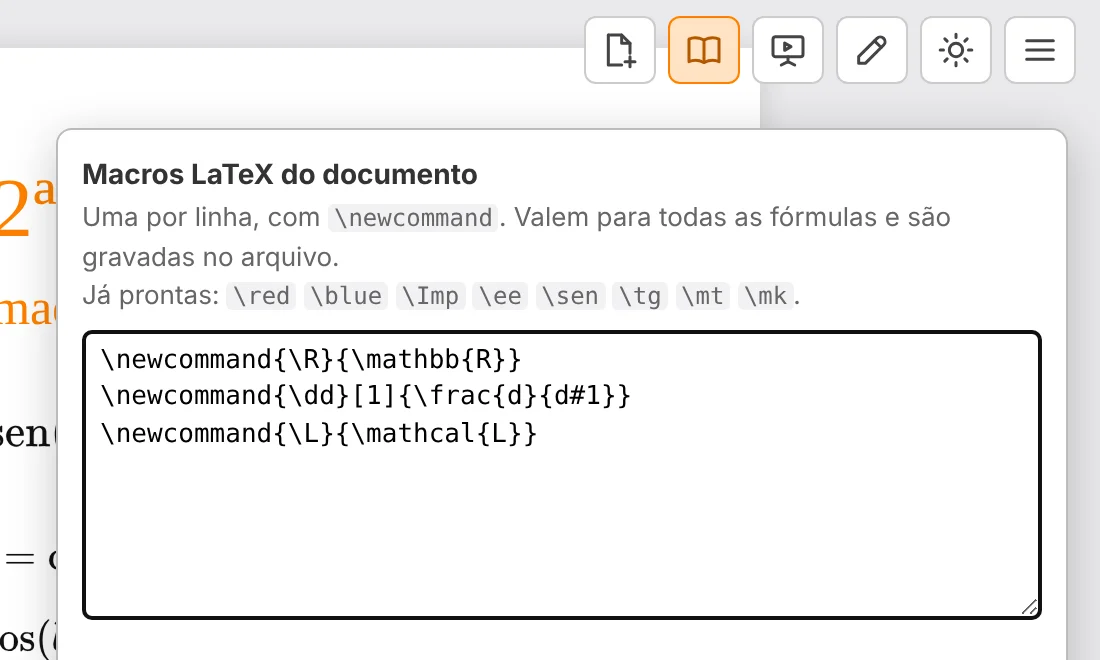
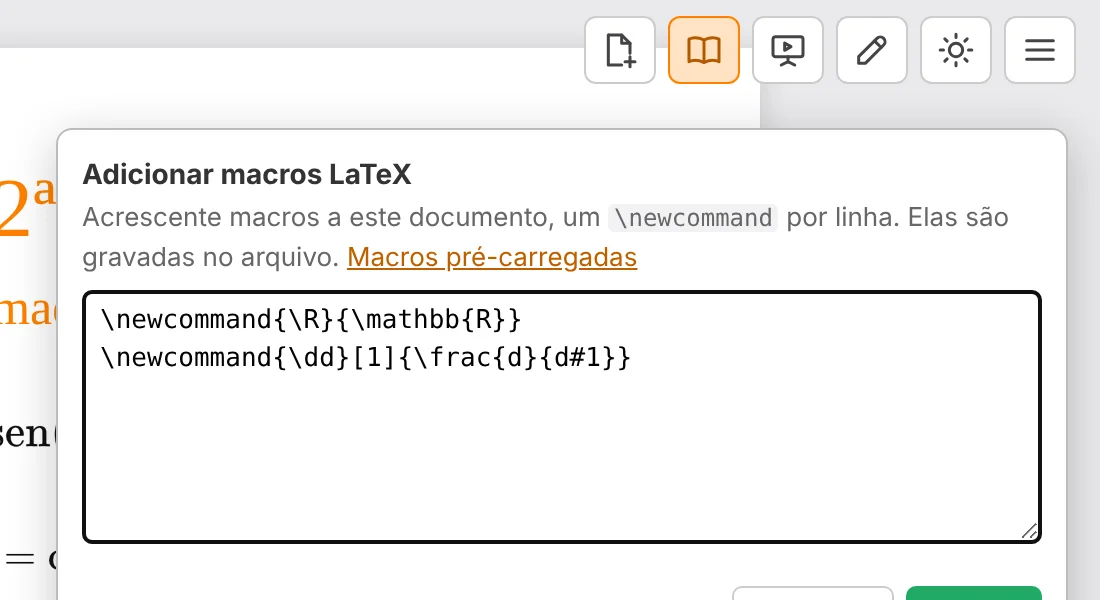
Macros: diálogo só acrescenta; opção Enter cria camada
- Adicionar macros LaTeX: começa vazio, com link para as macros
  pré-carregadas, e soma ao bloco x-tex-macros do documento
- Menu ☰ → Enter cria camada (preferência no navegador): cada Enter no
  texto começa uma camada nova
- Site, README e CHANGELOG

Claude-Session: https://claude.ai/code/session_01LiRaoRJDNxMqKx6f6sKoSB

diff --git a/strata.js b/strata.js
@@ -105,7 +105,7 @@
   <button type="button" id="m-edicao" data-modo="edicao" title="Modo edição. Clique de novo para voltar ao modo anterior (Ctrl+\)" aria-label="Modo edição"><svg viewBox="0 0 24 24" aria-hidden="true"><path d="M4 20h4L19 9a2.1 2.1 0 0 0-4-4L4 16z"></path><path d="M13.5 6.5l4 4"></path></svg></button>
   <button type="button" id="b-tema" title="Tema claro (clique para o escuro; só nesta tela, o arquivo não muda)" aria-label="Tema claro ou escuro"><svg class="lua" viewBox="0 0 24 24" aria-hidden="true"><path d="M20 14.5A8 8 0 0 1 9.5 4a8 8 0 1 0 10.5 10.5z"></path></svg><svg class="sol" viewBox="0 0 24 24" aria-hidden="true"><circle cx="12" cy="12" r="4"></circle><path d="M12 2.5v2M12 19.5v2M2.5 12h2M19.5 12h2M5.3 5.3l1.4 1.4M17.3 17.3l1.4 1.4M5.3 18.7l1.4-1.4M17.3 6.7l1.4-1.4"></path></svg></button>
   <span class="menu-strata"><button type="button" id="b-menu" title="Menu" aria-label="Menu" aria-haspopup="true" aria-expanded="false"><svg viewBox="0 0 24 24" aria-hidden="true"><path d="M4 6.5h16M4 12h16M4 17.5h16"></path></svg></button>
-    <span id="menu-strata" role="menu" hidden><button type="button" role="menuitem" id="mi-macros">Macros LaTeX…</button><a role="menuitem" href="https://fabiolimath.github.io/Strata.viz/" target="_blank" rel="noopener">Sobre o Strata.viz</a></span></span>
+    <span id="menu-strata" role="menu" hidden><button type="button" role="menuitem" id="mi-macros"><span class="mi-check" aria-hidden="true"></span>Adicionar macros LaTeX…</button><button type="button" role="menuitemcheckbox" id="mi-enter-camada" aria-checked="false" title="Na edição, cada Enter no texto começa uma camada nova (preferência desta tela; o arquivo não muda)"><span class="mi-check" aria-hidden="true"></span>Enter cria camada</button><a role="menuitem" href="https://fabiolimath.github.io/Strata.viz/" target="_blank" rel="noopener"><span class="mi-check" aria-hidden="true"></span>Sobre o Strata.viz</a></span></span>
 </div>
 <div id="barra">
   <span class="combo" id="c-estilo"><button type="button" id="b-estilo" class="b-icone" title="Estilo do parágrafo: Parágrafo" aria-label="Estilo do parágrafo"><svg viewBox="0 0 24 24" aria-hidden="true"><path d="M13 4v16M17 4v16M19.5 4H10.5a4.5 4.5 0 0 0 0 9H13"/></svg></button><button type="button" class="combo-seta" title="Estilo do parágrafo: escolher" aria-label="Estilo do parágrafo: escolher">▾</button>
@@ -139,9 +139,9 @@
   <div class="linha" style="justify-content:flex-end"><button type="button" id="pl-remover">Remover link</button><button type="button" id="pl-cancelar">Cancelar</button><button type="button" id="pl-ok" style="background:#2a6;color:#fff;border-color:#2a6">OK</button></div>
 </div>
 <div id="painel-macros" class="painel-mini" hidden="" role="dialog" aria-label="Macros LaTeX do documento">
-  <div class="linha"><b>Macros LaTeX do documento</b></div>
-  <div class="pmc-dica">Uma por linha, com <code>\newcommand</code>. Valem para todas as fórmulas e são gravadas no arquivo.<br>Já prontas: <code>\red</code> <code>\blue</code> <code>\Imp</code> <code>\ee</code> <code>\sen</code> <code>\tg</code> <code>\mt</code> <code>\mk</code>.</div>
-  <textarea id="pmc-tex" rows="7" spellcheck="false" placeholder="\newcommand{\R}{\mathbb{R}}&#10;\newcommand{\dd}[1]{\frac{d}{d#1}}"></textarea>
+  <div class="linha"><b>Adicionar macros LaTeX</b></div>
+  <div class="pmc-dica">Acrescente macros a este documento, um <code>\newcommand</code> por linha. Elas são gravadas no arquivo. <a href="https://fabiolimath.github.io/Strata.viz/#macros" target="_blank" rel="noopener">Macros pré-carregadas</a></div>
+  <textarea id="pmc-tex" rows="6" spellcheck="false"></textarea>
   <div id="pmc-erro"></div>
   <div class="linha" style="justify-content:flex-end"><button type="button" id="pmc-cancelar">Cancelar</button><button type="button" id="pmc-ok" style="background:#2a6;color:#fff;border-color:#2a6">Aplicar</button></div>
 </div>
@@ -788,7 +788,7 @@
     // linhas novas: clicar abaixo do último bloco da página cria um parágrafo;
     // Enter no fim de uma equação ou título cria um parágrafo comum (não uma cópia da equação)
     function cursorEm(el) { const r = document.createRange(); r.selectNodeContents(el); r.collapse(true); getSelection().removeAllRanges(); getSelection().addRange(r); }
-    function novoParagrafo(depois) { const p = document.createElement('p'); p.innerHTML = '<br>'; depois.after(p); cursorEm(p); sujo(true); return p; }
+    function novoParagrafo(depois, enter) { const p = document.createElement('p'); p.innerHTML = '<br>'; if (enter && ED.enterCamada) p.className = 'fragment'; depois.after(p); cursorEm(p); sujo(true); if (enter && ED.enterCamada) iconesCamada(); return p; }
     document.addEventListener('mousedown', ev => {
       if (!document.body.classList.contains('editando') || document.body.classList.contains('escolhendo')) return;
       const sec = ev.target;
@@ -816,9 +816,9 @@
       if (b.matches('div.eq.passo')) {
         const vazia = !b.textContent.replace(/[\s\u200B]/g, '') && !b.querySelector('mjx-container, .marca');
         if (vazia) { const p = trocarTag(b, 'p'); p.classList.remove('eq', 'passo'); if (!p.classList.length) p.removeAttribute('class'); p.innerHTML = '<br>'; cursorEm(p); sujo(true); iconesCamada(); return; }
-        const d = document.createElement('div'); d.className = 'eq passo'; d.innerHTML = '<br>'; b.after(d); cursorEm(d); sujo(true); return;
+        const d = document.createElement('div'); d.className = 'eq passo' + (ED.enterCamada ? ' fragment' : ''); d.innerHTML = '<br>'; b.after(d); cursorEm(d); sujo(true); if (ED.enterCamada) iconesCamada(); return;
       }
-      novoParagrafo(b);
+      novoParagrafo(b, true);
     });
     // nova página, logo depois da página atual
     $('b-pagina').onclick = () => {
@@ -1746,6 +1746,11 @@
       const sel = getSelection(); if (!sel.rangeCount) return;
       const n = sel.getRangeAt(0).startContainer, B = (n.nodeType === 1 ? n : n.parentElement).closest('section.pagina > *, li');
       const A = B && B.previousElementSibling; if (!A) return;
+      if (ED.enterCamada && !B.matches('.rodape')) {   // opção "Enter cria camada": a linha de baixo é uma camada nova
+        B.classList.add('fragment'); B.removeAttribute('data-junto');
+        B.querySelectorAll('span.fragment:not(.marca)').forEach(x => { if (!x.querySelector('.ancora-camada')) { x.classList.remove('fragment'); x.removeAttribute('data-junto'); if (!x.classList.length) x.removeAttribute('class'); } });
+        iconesCamada(); return;
+      }
       const par = (a, b) => { if (!a || !b || !b.classList.contains('fragment')) return; const j = a.dataset.junto || b.dataset.junto || novoJunto(); a.dataset.junto = j; b.dataset.junto = j; };
       const semAncora = e => !e.querySelector(':scope > .ancora-camada');
       if (B.classList.contains('fragment') && A.classList.contains('fragment')) {
@@ -2390,8 +2395,7 @@
     // ficam num <script type="text/x-tex-macros"> do <head>, que vai para o arquivo salvo
     const blocoMacros = () => document.querySelector('script[type="text/x-tex-macros"]');
     function abrirMacros() {
-      const b = blocoMacros();
-      $('pmc-tex').value = b ? b.textContent.replace(/^\n+|\s+$/g, '') : '';
+      $('pmc-tex').value = '';
       $('pmc-erro').textContent = '';
       $('painel-macros').hidden = false; $('pmc-tex').focus();
     }
@@ -2403,16 +2407,17 @@
         const er = n && n.querySelector('[data-mjx-error]');
         if (er) { $('pmc-erro').textContent = 'Erro: ' + er.getAttribute('data-mjx-error'); return; }
       }
+      if (!t) { fecharMacros(); return; }
       let b = blocoMacros();
-      if (!t) { if (b) b.remove(); }
-      else {
+      {
         if (!b) {
           b = document.createElement('script'); b.type = 'text/x-tex-macros';
           const s = document.querySelector('head script[src*="strata.js"]');
           if (s) s.after(b); else document.head.append(b);
           b.before(document.createTextNode('\n'));
         }
-        b.textContent = '\n' + t + '\n';
+        const ant = b.textContent.replace(/^\n+|\s+$/g, '');   // só acrescenta: as macros que já estavam continuam
+        b.textContent = '\n' + (ant ? ant + '\n' : '') + t + '\n';
       }
       fecharMacros();
       // fórmulas desenhadas de novo com as macros novas
@@ -2427,6 +2432,15 @@
       avisar('Macros aplicadas');
     }
     $('mi-macros').onclick = abrirMacros;
+    // preferência de quem edita: cada Enter no texto começa uma camada nova
+    const marcarEnterCamada = () => $('mi-enter-camada').setAttribute('aria-checked', String(ED.enterCamada));
+    try { ED.enterCamada = localStorage.getItem('strata-enter-camada') === '1'; } catch (e) { ED.enterCamada = false; }
+    marcarEnterCamada();
+    $('mi-enter-camada').onclick = () => {
+      ED.enterCamada = !ED.enterCamada; marcarEnterCamada();
+      try { localStorage.setItem('strata-enter-camada', ED.enterCamada ? '1' : '0'); } catch (e) {}
+      avisar(ED.enterCamada ? 'Enter cria camada: ligado' : 'Enter cria camada: desligado');
+    };
     $('pmc-cancelar').onclick = fecharMacros;
     $('pmc-ok').onclick = aplicarMacros;
     $('pmc-tex').addEventListener('keydown', e => {

diff --git a/site/index.html b/site/index.html
@@ -136,7 +136,7 @@
   <div class="duas" style="margin-top:28px">
     <div>
       <h3>Tema escuro e menu</h3>
-      <p class="lead" style="margin:0">Ao lado dos modos, o botão do tema mostra o tema atual (sol no claro, lua no escuro) e, clicado, troca para o outro: o papel, o texto, as fórmulas e as cores das marcações se adaptam. Na primeira vez, o Strata segue o tema do sistema; depois, a escolha fica lembrada no navegador, só na sua tela, e o arquivo não muda. O menu <b>☰</b> tem as macros LaTeX do documento e o link para esta página.</p>
+      <p class="lead" style="margin:0">Ao lado dos modos, o botão do tema mostra o tema atual (sol no claro, lua no escuro) e, clicado, troca para o outro: o papel, o texto, as fórmulas e as cores das marcações se adaptam. Na primeira vez, o Strata segue o tema do sistema; depois, a escolha fica lembrada no navegador, só na sua tela, e o arquivo não muda. O menu <b>☰</b> tem o diálogo para adicionar macros LaTeX, a opção <b>Enter cria camada</b> (ligada, cada Enter no texto começa uma camada nova; vale só para quem edita, no navegador) e o link para esta página.</p>
     </div>
     <figure><a href="img/escuro.webp"><img src="img/escuro.webp" alt="O exemplo no modo apresentação com o tema escuro: papel cinza-escuro, texto claro e destaques coloridos" loading="lazy"></a></figure>
   </div>
@@ -225,8 +225,8 @@
     <tr><td><code>\mk{nome}{...}</code></td><td>\(\mk{m1}{y'} = ay\)</td><td>Rótulo de um termo para as marcações. Não muda a aparência, e o editor o escreve sozinho quando você marca um termo.</td></tr>
   </table>
   <h3 style="margin-top:28px">Suas próprias macros</h3>
-  <p class="lead">O jeito mais simples é pelo próprio Strata: no menu <b>☰</b>, escolha <b>Macros LaTeX…</b>, escreva um <code>\newcommand</code> por linha e clique em Aplicar. As fórmulas são redesenhadas na hora e as macros vão junto quando você salva o arquivo.</p>
-  <figure class="cap" style="margin:18px 0"><img src="img/macros.webp" alt="Diálogo Macros LaTeX, aberto pelo menu do Strata, com dois \newcommand" loading="lazy" width="550" height="330" style="max-width:550px"></figure>
+  <p class="lead">O jeito mais simples é pelo próprio Strata: no menu <b>☰</b>, escolha <b>Adicionar macros LaTeX…</b>, escreva um <code>\newcommand</code> por linha e clique em Aplicar. Elas se somam às que o documento já tem, as fórmulas são redesenhadas na hora e as macros vão junto quando você salva o arquivo.</p>
+  <figure class="cap" style="margin:18px 0"><img src="img/macros.webp" alt="Diálogo Adicionar macros LaTeX, aberto pelo menu do Strata, com dois \newcommand" loading="lazy" width="550" height="300" style="max-width:550px"></figure>
   <p class="lead">Por baixo, elas ficam num bloco no <code>&lt;head&gt;</code> do documento, que também pode ser escrito à mão. Ele vale antes da primeira fórmula, nos três modos e no editor de fórmulas:</p>
 <pre class="codigo">&lt;script type="text/x-tex-macros"&gt;
 \newcommand{\dd}[1]{\frac{d}{d#1}}

diff --git a/strata.css b/strata.css
@@ -382,6 +382,10 @@ body.editando .apostila .marca.pairada { outline: 2px solid #ff8000; outline-off
 #menu-strata a:hover { background: #ffe2c4; color: #000; }
 #modos #menu-strata button { display: block; height: auto; min-width: 0; width: 100%; text-align: left; font: inherit; padding: 7px 10px; border: 0; border-radius: 5px; background: none; color: #333; cursor: pointer; white-space: nowrap; }
 #modos #menu-strata button:hover { background: #ffe2c4; color: #000; }
+#menu-strata .mi-check { display: inline-block; width: 1.2em; }
+#menu-strata [aria-checked="true"] .mi-check::before { content: "✓"; color: #e07000; font-weight: bold; }
+#menu-strata [role="menuitemcheckbox"] .mi-check, #menu-strata #mi-macros { padding-left: 0; }
+#painel-macros .pmc-dica a { color: #c05f00; }
 #painel-macros { top: 64px; right: 16px; width: min(480px, calc(100vw - 32px)); z-index: 75; }
 #painel-macros .pmc-dica { color: #666; font-size: 13px; line-height: 1.5; margin: 2px 0 6px; }
 #painel-macros code { font-size: 12px; background: #f2f2f4; padding: 0 3px; border-radius: 3px; }
@@ -445,6 +449,7 @@ html.strata-escuro #b-tema .sol { display: none; }
   html.strata-escuro #painel-macros code { background: var(--ui-fundo2); color: var(--ui-texto); }
   html.strata-escuro #pmc-tex { background: #17191e; color: var(--ui-texto); border-color: var(--ui-borda); }
   html.strata-escuro #pmc-erro { color: #ff6b6b; }
+  html.strata-escuro #painel-macros .pmc-dica a { color: var(--laranja); }
   html.strata-escuro #barra .sep, html.strata-escuro #modos .sep { background: var(--ui-borda); }
   html.strata-escuro #barra .combo-seta { color: var(--ui-suave); }
   html.strata-escuro #ee-previa { background: #17181d; color: var(--tinta); }

diff --git a/README.md b/README.md
@@ -23,8 +23,9 @@ trocados pelos ícones do canto superior direito, sem recarregar:
 
 Ao lado dos modos ficam o botão de **tema** (o ícone mostra o tema atual, sol
 no claro e lua no escuro; na 1ª vez segue o sistema; vale só na tela de quem lê,
-o arquivo não muda) e o **menu** ☰, com as **Macros LaTeX** do documento e o
-link para o site.
+o arquivo não muda) e o **menu** ☰, com **Adicionar macros LaTeX**, a opção
+**Enter cria camada** (cada Enter no texto começa uma camada nova; preferência
+de quem edita, guardada no navegador) e o link para o site.
 
 Exemplo: [`exemplos/exemplo3.html`](exemplos/exemplo3.html) (um exemplo
 resolvido de EDOs de 2ª ordem: camadas, marcações sobre termos já escritos,
@@ -98,8 +99,8 @@ como `novo_documento.html`.
 ### Macros LaTeX
 
 Já definidas: `\red`, `\blue`, `\Imp`, `\ee`, `\mt`, `\sen`, `\tg` e `\mk`.
-Para outras, use o menu ☰ → **Macros LaTeX…** (um `\newcommand` por linha;
-as fórmulas são redesenhadas na hora), ou ponha no `<head>` do documento um
+Para outras, use o menu ☰ → **Adicionar macros LaTeX…** (um `\newcommand` por
+linha, somados aos do documento; as fórmulas são redesenhadas na hora), ou ponha no `<head>` do documento um
 bloco com `\newcommand`, que vale antes da primeira fórmula:
 
 ```html

diff --git a/CHANGELOG.md b/CHANGELOG.md
@@ -9,8 +9,11 @@
   marcações e interface se adaptam; a escolha fica no navegador (`localStorage`,
   `strata-tema`) e não vai para o arquivo salvo nem para a impressão.
 - Menu ☰ ao lado dos modos, com "Macros LaTeX…" e "Sobre o Strata.viz".
-- Diálogo Macros LaTeX (menu ☰): edita o `<script type="text/x-tex-macros">` do
-  documento (cria se não houver), confere os erros e redesenha as fórmulas.
+- Diálogo Adicionar macros LaTeX (menu ☰): começa vazio, com link para as macros
+  pré-carregadas; acrescenta ao `<script type="text/x-tex-macros">` do documento
+  (cria se não houver), confere os erros e redesenha as fórmulas.
+- Opção "Enter cria camada" (menu ☰, guardada em `localStorage`,
+  `strata-enter-camada`): na edição, cada Enter no texto começa uma camada nova.
 - Tema: o ícone mostra o tema atual (sol no claro, lua no escuro). Sem escolha
   guardada, segue o sistema. Corrigido: com o sistema em modo escuro, o tema
   claro deixava o papel e o texto escuros (regras `prefers-color-scheme` e
